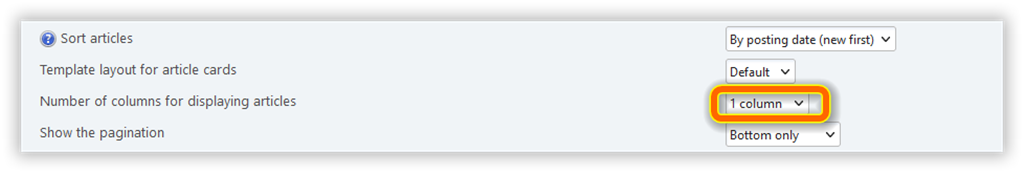
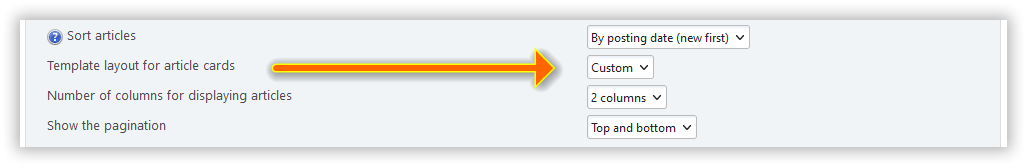
Update docs

diff --git a/website/docusaurus.config.js b/website/docusaurus.config.js
@@ -71,7 +71,7 @@ const config = {
       prism: {
         theme: lightCodeTheme,
         darkTheme: darkCodeTheme,
-        additionalLanguages: ['php'],
+        additionalLanguages: ['php', 'latte'],
       },
     }),
 

diff --git a/website/docs/how-to/create-layout.md b/website/docs/how-to/create-layout.md
@@ -4,65 +4,63 @@ sidebar_position: 1
 
 # Create own layout for the frontpage
 
+:::info
+
+Since version 2.2.0 we use [Latte](https://latte.nette.org/en/syntax) to render frontpage layouts.
+
+:::
+
 In addition to existing layouts, you can always add your own.
 
-To do this, create a file `CustomFrontPage.template.php` in the `/Themes/default` directory:
+To do this, create a file `custom.latte` in the `/Themes/default/LightPortal/layouts` directory:
 
-```php {8,17}
-<?php
+```latte
+{varType array $txt}
+{varType array $context}
+{varType array $modSettings}
+{var $teaser_length = 100}
 
-/**
- * Custom template layout
- *
- * @return void
- */
-function template_show_articles_custom() // Do not forget change custom name *custom* for your layout
-{
-	global $context;
+{if empty($context[lp_active_blocks])}
+<div class="col-xs">
+{/if}
 
-	if (empty($context['lp_active_blocks']))
-		echo '
-	<div class="col-xs">';
+    <div class="lp_frontpage_articles article_custom">
+        {do show_pagination()}
 
-	echo '
-	<div class="lp_frontpage_articles article_custom">'; // Do not forget change custom class *article_custom* for your layout
+            <div
+                n:foreach="$context[lp_frontpage_articles] as $article"
+                class="col-xs-12 col-sm-6 col-md-4 col-lg-{$context[lp_frontpage_num_columns]}"
+            >
+                <div n:if="!empty($article[image])">
+                    <img src="{$article[image]}" alt="{$article[title]}">
+                </div>
+                <h3>
+                    <a href="{$article[msg_link]}">{$article[title]}</a>
+                </h3>
+                <p n:if="!empty($article[teaser])">
+                    {$article[teaser]|truncate:$teaser_length}
+                </p>
+            </div>
 
-	show_pagination();
+        {do show_pagination(bottom)}
+    </div>
 
-	foreach ($context['lp_frontpage_articles'] as $article) {
-		echo '
-		<div class="col-xs-12 col-sm-6 col-md-4 col-lg-', $context['lp_frontpage_num_columns'], ' col-xl-', $context['lp_frontpage_num_columns'], '">';
-
-		// Just outputs the $article data as a hint for you
-		echo '<figure class="noticebox">' . parse_bbc('[code]' . print_r($article, true) . '[/code]') . '</figure>';
-
-		// Your code
-
-		echo '
-		</div>';
-	}
-
-	show_pagination('bottom');
-
-	echo '
-	</div>';
-
-	if (empty($context['lp_active_blocks']))
-		echo '
-	</div>';
-}
-
+{if empty($context[lp_active_blocks])}
+</div>
+{/if}
 ```
 
-After that you will see a new frontpage layout - `Custom` - on the portal settings. You can create as many such layouts as you want (`template_show_articles_custom1()`, `template_show_articles_custom2()`, etc.).
+After that you will see a new frontpage layout - `Custom` - on the portal settings:
 
 ![Select custom template](set_custom_template.png)
 
-To customize stylesheets, create a file `custom_frontpage.css` in the `/Themes/default/css` directory:
+You can create as many such layouts as you want. Use `debug.latte` and other layouts in `/Themes/default/LightPortal/layouts` directory as examples.
+
+To customize stylesheets, create a file `light_portal_custom.css` in the `/Themes/default/css` directory:
 
 ```css {3}
 /* Custom layout */
-.article_custom {
+.article_custom_class {
 	/* Your rules */
 }
 ```

diff --git a/website/docs/getting-started/configuration.md b/website/docs/getting-started/configuration.md
@@ -26,7 +26,7 @@ In this section, you can fully customize the portal frontpage, enable standalone
 * Show the number of views and comments
 * First to display articles with the highest number of comments — you can display the most commented articles first, regardless of the selected sorting type.
 * Sorting articles — you can choose the type of sorting of articles on the frontpage.
-* Template layout for article cards — to add your own templates create a separate file _[CustomFrontPage.template.php](/how-to/create-layout)_.
+* Template layout for article cards — you can add _[your own template](/how-to/create-layout)_, if you want.
 * Number of columns for displaying articles — specify the number of columns in which the article cards will be displayed.
 * Show the pagination — specify where the page pagination should be displayed.
 * Use simple pagination — displaying "next page" and "previous page" links instead of full navigation.

diff --git a/website/docs/getting-started/updating.md b/website/docs/getting-started/updating.md
@@ -7,7 +7,7 @@ If there are no notes in the changelog of the latest version, it is enough to ex
 
 :::info
 
-Since version 2.1.1 you can upgrade without uninstalling the previous version. Simply download the new archive, go to the Package Manager and click "Upgrade" button next to the uploaded package.
+Since version 2.2.1 you can upgrade without uninstalling the previous version. Simply download the new archive, go to the Package Manager and click "Upgrade" button next to the uploaded package.
 
 ![Updating](upgrade.png)
 
